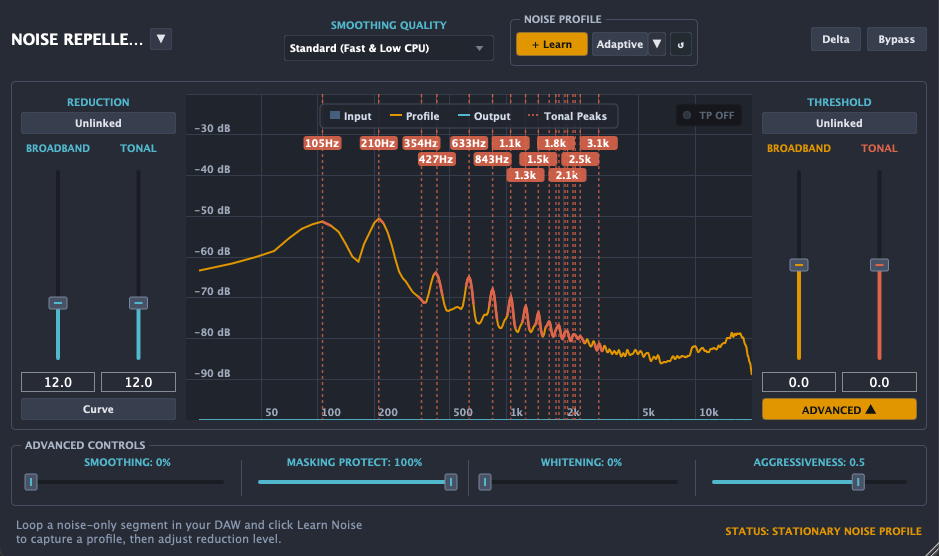
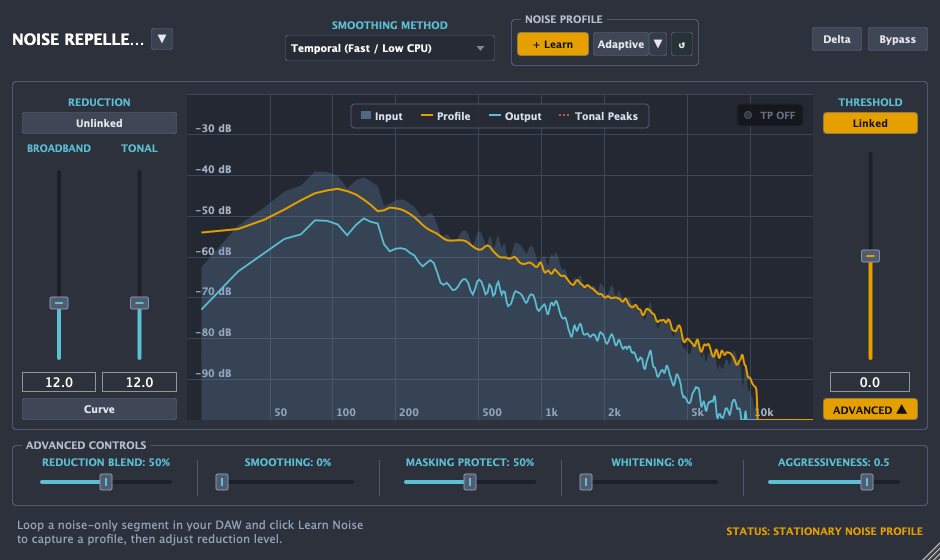
docs: refresh README screenshots with live visualizer states (#234)

diff --git a/README.md b/README.md
@@ -7,9 +7,10 @@
 A multi-format audio plugin (VST3, AU, LV2) for real-time spectral noise reduction, built with [JUCE](https://juce.com/) and powered by the [libspecbleach](https://github.com/lucianodato/libspecbleach) DSP engine.
 
 ## Screenshots
-![Basic Controls](<Images/Screenshot 1.png>)
-![Advanced Controls](<Images/Screenshot 2.png>)
-![Reduction Curve](<Images/Screenshot 3.png>)
+
+![Basic controls: visualizer passing through with live input and output spectra](<Images/Screenshot 1.png>)
+![Advanced controls: learned stationary noise profile with tonal peak markers and unlinked broadband/tonal controls](<Images/Screenshot 2.png>)
+![Reduction curve editor over the live input/output spectrum](<Images/Screenshot 3.png>)
 
 ## Features
 
@@ -29,17 +30,19 @@ A multi-format audio plugin (VST3, AU, LV2) for real-time spectral noise reducti
 ### Precision Controls
 * **Tonal separation**: Independent reduction of harmonic content and tonal noise (hum, resonance), with unlinkable tonal threshold offset and engine-detected peak markers.
 * **Threshold Offsets & Reduction Curve**: Broadband and tonal threshold offsets plus a custom per-bin reduction bias curve for fine-grained control.
+* **Reduction Blend**: Neighborhood gain-statistic blend that widens reduction decisions to time-frequency neighbors for smoother, more consistent suppression across bins.
 * **Stepped STFT Frame Sizes**: 23 / 32 / 46 / 64 / 93 ms options from the Options menu (short frames for transient material, long frames for frequency resolution). Switching rebuilds from a clean slate and re-reports latency (~2x frame); latency stays constant across smoothing modes for a given frame size.
 * **Intelligent Steering**: Adjustable aggressiveness to balance between different noise profile statistics (Mean, Median, Max).
 * **Adaptive Whitening**: Reshapes the residual noise floor to prevent coloring and artifacts.
 * **Masking Transparency (Veto)**: Protects transients and delicate details by balancing reduction against signal energy.
 * **Adjustable Smoothing**: Fine-tune the balance between artifact suppression and transient clarity.
-    * **Standard Denoising**: Uses temporal smoothing for stable noise reduction.
-    * **Patch-Based Denoising**: Uses NLM smoothing for pattern-based artifact removal.
-    * **Patch-Based + Refinement**: Adds the post-NLM DFTT refinement stage for maximum quality.
+    * **Temporal (Fast / Low CPU)**: Temporal smoothing for stable noise reduction.
+    * **Patch-Based NLM (Texture & Detail)**: NLM smoothing for pattern-based artifact removal.
+    * **NLM + DFTT Refinement (Tonal / Difficult)**: Adds the post-NLM DFTT refinement stage for maximum quality.
+    * **Collaborative BM3D (Smooth / Steady)**: Block-matching collaborative smoothing for steady noise.
 
 ### Workflow & Integration
-* **Low-Latency Mode**: Causal 1D-only path with a fixed 512-sample frame for live scenarios (~10.7 ms at 48 kHz / ~11.6 ms at 44.1 kHz). Enable it from the Options menu: the smoothing selector locks to Standard, the frame-size menu is disabled, and reduction/threshold links are forced on (the short frame is too coarse for independent tonal/broadband control). Entering it installs control defaults (smoothing floor 30, full aggressiveness) and leaves masking and reduction blend untouched; the advanced panel swaps the Masking slider for Reduction Blend. The smoothing slider's top half maps to ~130 ms max release instead of 500 ms (long releases smear coarse LF bins into pad artifacts). Toggling rebuilds the engine from a clean slate (profile dropped, Learn auto-stopped) and re-reports host delay compensation.
+* **Low-Latency Mode**: Causal 1D-only path with a fixed 512-sample frame for live scenarios (~10.7 ms at 48 kHz / ~11.6 ms at 44.1 kHz). Enable it from the Options menu: the smoothing selector locks to Temporal, the frame-size menu is disabled, and reduction/threshold links are forced on (the short frame is too coarse for independent tonal/broadband control). Entering it installs control defaults (smoothing floor 30, full aggressiveness) and leaves masking and reduction blend untouched; the advanced panel swaps the Masking slider for Reduction Blend. The smoothing slider's top half maps to ~130 ms max release instead of 500 ms (long releases smear coarse LF bins into pad artifacts). Toggling rebuilds the engine from a clean slate (profile dropped, Learn auto-stopped) and re-reports host delay compensation.
 * **Interactive Spectral Visualizer**: Real-time FFT visualization of input, noise floor profile, and processed output spectrums with detected tonal peak markers. The noise profile renders live while learning, and aggressiveness/threshold adjustments stay responsive while silent or stopped.
 * **Residual Listening**: Hear exactly what is being filtered out to fine-tune your settings.
 * **Soft Bypass**: Seamless, click-free A/B testing with cross-faded bypass and latency compensation — the engine keeps running while bypassed so toggles never time-travel.
